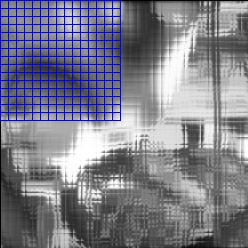
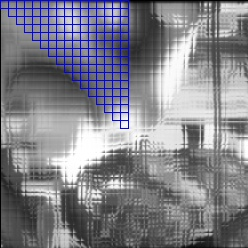
Block upper quadrant

diff --git a/extraction.py b/extraction.py
@@ -98,12 +98,12 @@ def basic_rotations(rot0):
     for y in range(0,16):
         print range(y,16)
         for x in range(y,16):
-           rot0_c = rectangle(rot0_c, (x * 8, x * 8), (y * 8, y * 8), (255,0,0), 1)
-           rot90_c = rectangle(rot90_c, (x * 8, x* 8), (y * 8,y * 8), (255,0,0), 1)
-           rot180_c = rectangle(rot180_c, (x * 8,x * 8), (y * 8,y * 8), (255,0,0), 1)
-           rot270_c = rectangle(rot270_c, (x * 8,x *8), (y * 8,y * 8), (255,0,0), 1)
-           vertical_c = rectangle(vertical_c, (x * 8,x * 8), (y * 8,y * 8), (255,0,0), 1)
-           horizontal_c = rectangle(horizontal_c, (x * 8,x * 8), (y * 8,y *8), (255,0,0), 1)
+           rot0_c = rectangle(rot0_c, (x * 8, y * 8), (x * 8 + 8 , y * 8 + 8), (255,0,0), 1)
+           rot90_c = rectangle(rot90_c, (x * 8, y* 8), (x * 8 + 8,y * 8 + 8), (255,0,0), 1)
+           rot180_c = rectangle(rot180_c, (x * 8,y * 8), (x * 8+8,y * 8+8), (255,0,0), 1)
+           rot270_c = rectangle(rot270_c, (x * 8,y *8), (x * 8+8,y * 8+8), (255,0,0), 1)
+           vertical_c = rectangle(vertical_c, (x * 8,y * 8), (x * 8+8,y * 8+8), (255,0,0), 1)
+           horizontal_c = rectangle(horizontal_c, (x * 8,y * 8), (x * 8+8,y *8+8), (255,0,0), 1)
     imwrite("rot90_quadrant.jpg",rot90_c)
     imwrite("rot180_quadrant.jpg",rot180_c)
     imwrite("rot270_quadrant.jpg", rot270_c)
